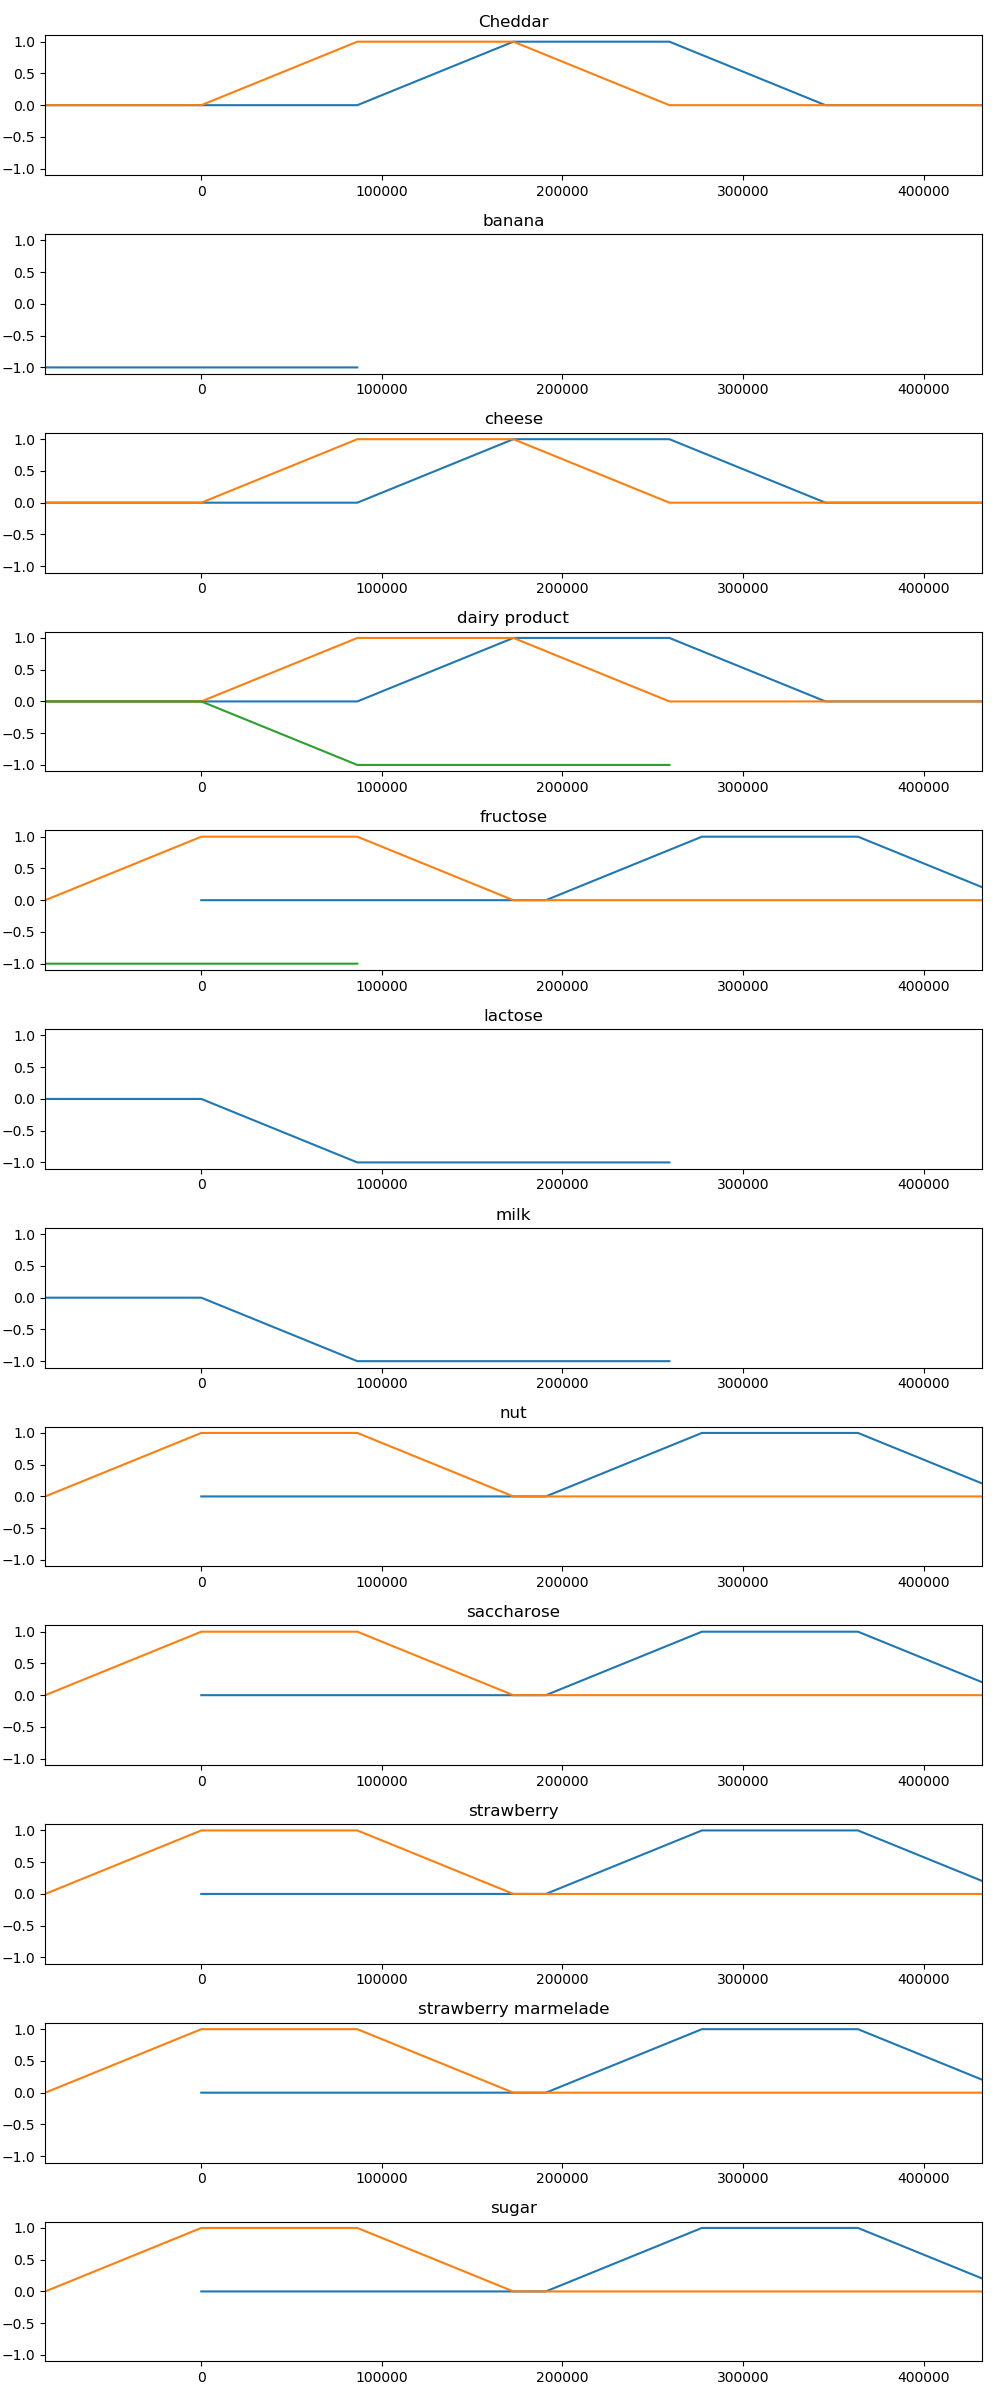
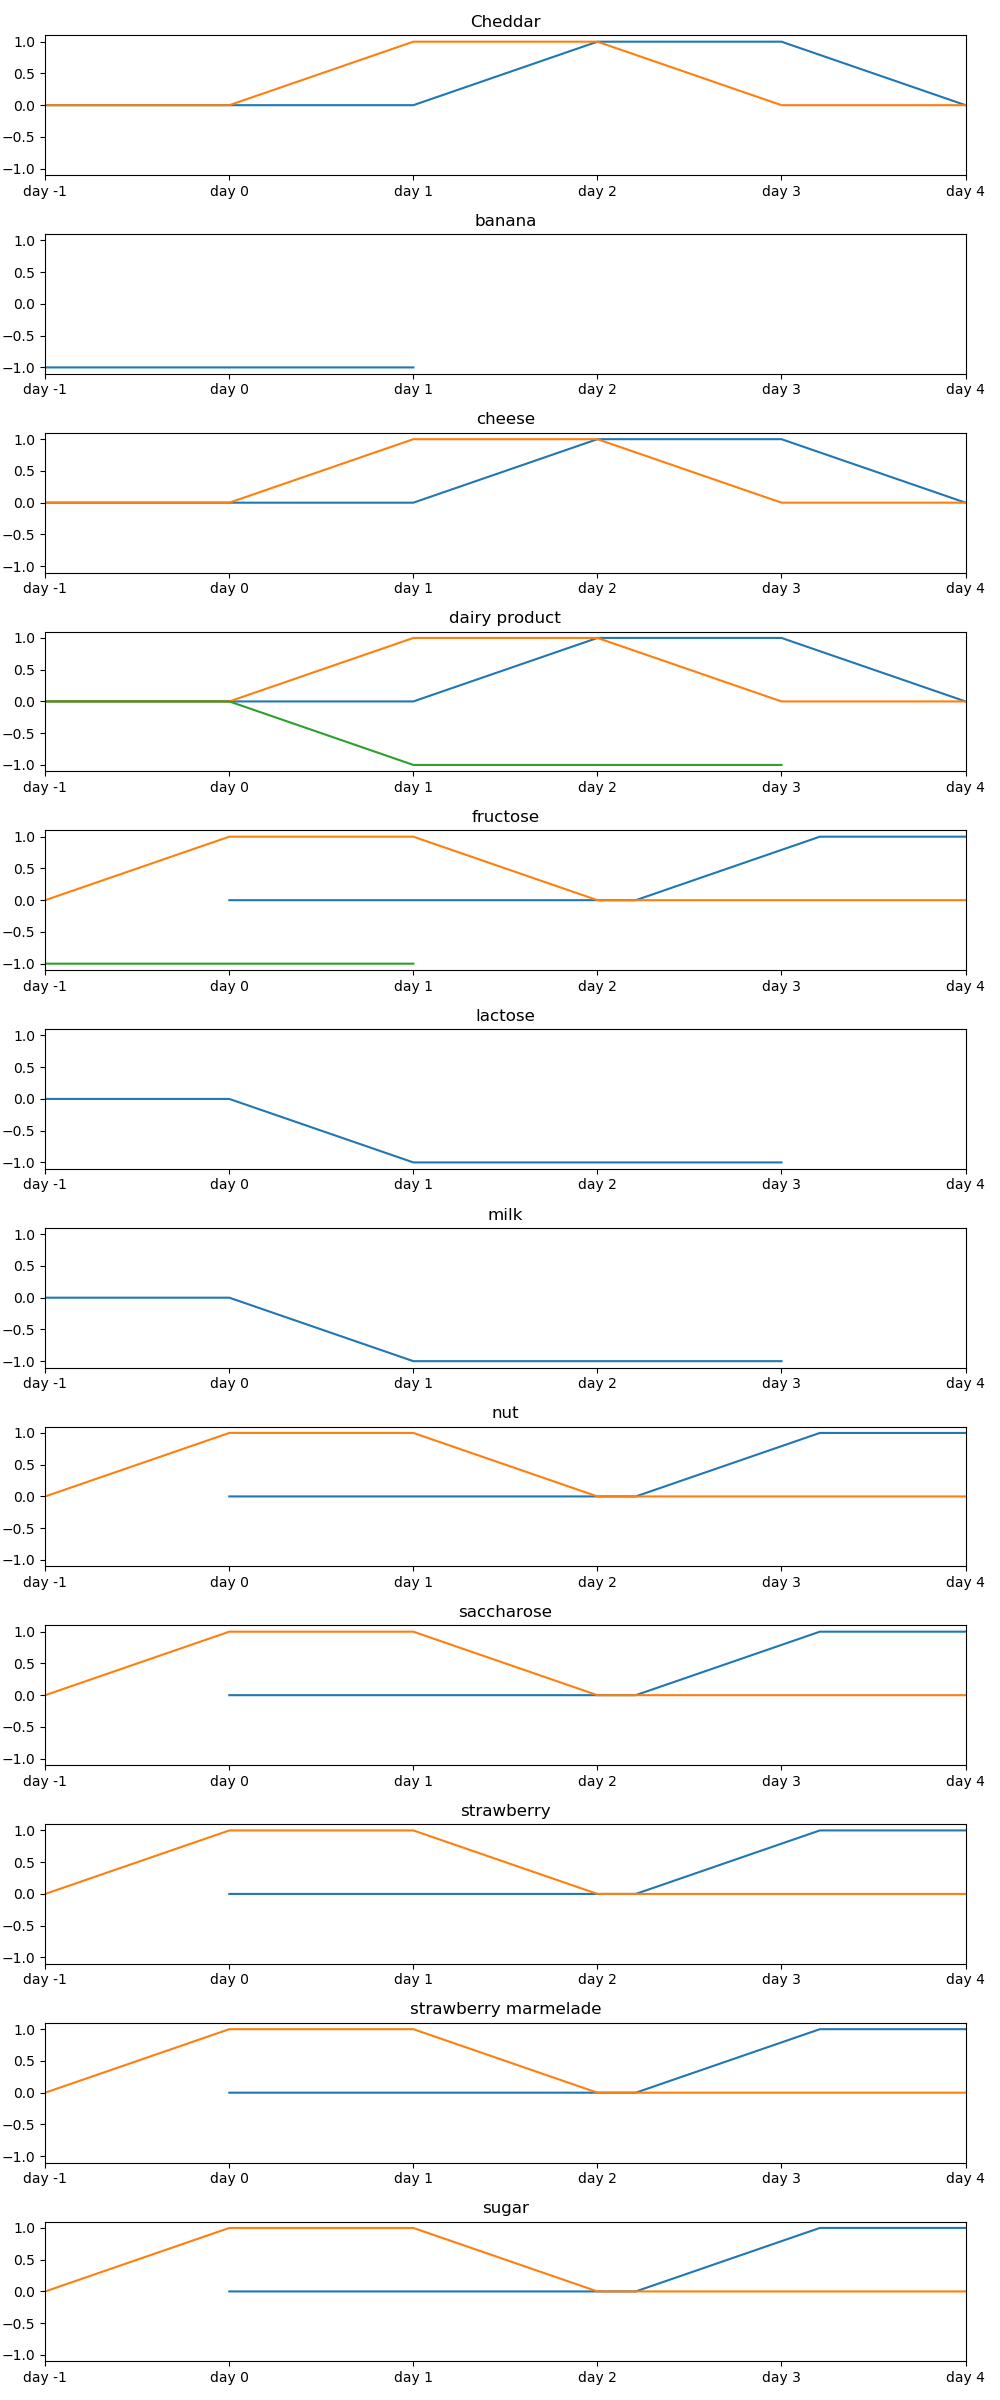
use "days" as x-axis-labels

diff --git a/start.py b/start.py
@@ -3,7 +3,6 @@
 import re
 from datetime import datetime
 import matplotlib.pyplot as plt
-import constant
 
 
 def load_ingredients(raw):
@@ -34,9 +33,9 @@ def resolve_ingredient(synonyms, ingredient):
     return ingredient_synonyms_resolved
 
 
-def process_diary(ingredients):
-    ingredients_per_datetime = {}
-    wellbeing_per_datetime = {}
+def parse_diary(diary_raw, ingredients):
+    ingredients_diary = {}
+    wellbeing_diary = {}
     well_being = 0
     diary_title_pattern = re.compile("^(\\d+)\\.(\\d+)\\.(\\d*) (\\d+):(\\d+)( -?(\\d+)(.(\\d+))?)?$")
     next_day = 1
@@ -66,23 +65,23 @@ def process_diary(ingredients):
                 if not first_datetime:
                     first_datetime = diary_datetime
 
-                diary_offset = (diary_datetime - first_datetime).total_seconds()
+                diary_offset = (diary_datetime - first_datetime).total_seconds() / 3600
                 if m.group(6):
                     well_being = float(m.group(6))
-                wellbeing_per_datetime[diary_offset] = well_being
+                wellbeing_diary[diary_offset] = well_being
             else:
                 contents = []
-                if diary_offset in ingredients_per_datetime:
-                    contents = ingredients_per_datetime[diary_offset]
+                if diary_offset in ingredients_diary:
+                    contents = ingredients_diary[diary_offset]
                 else:
-                    ingredients_per_datetime[diary_offset] = contents
+                    ingredients_diary[diary_offset] = contents
                 contents.append(line)
                 if line in ingredients:
                     for synonym in ingredients[line]:
                         contents.append(synonym)
-                ingredients_per_datetime[diary_offset] = contents
+                ingredients_diary[diary_offset] = contents
             next_day = 0
-    return ingredients_per_datetime, wellbeing_per_datetime
+    return ingredients_diary, wellbeing_diary
 
 
 with open("ingredients.txt") as f:
@@ -93,7 +92,7 @@ with open("diary.txt") as f:
 
 ingredients_unresolved = load_ingredients(ingredients_raw)
 ingredients_resolved = resolve_ingredients(ingredients_unresolved)
-ingredients_diary, wellbeing_diary = process_diary(ingredients_resolved)
+ingredients_diary, wellbeing_diary = parse_diary(diary_raw, ingredients_resolved)
 
 x = wellbeing_diary.keys()
 y = wellbeing_diary.values()
@@ -124,7 +123,9 @@ for inspected in all_ingredients_unique:
         axs[plot_number].plot([x-consumption for x in x], y, linestyle='solid')
 
     axs[plot_number].set_title(inspected)
-    axs[plot_number].set_xlim([-1*constant.DAY, +5*constant.DAY])
+    axs[plot_number].set_xlim([-1*24, +4*24])
+    axs[plot_number].set_xticks([0 + x*24 for x in range(-1,+5)])
+    axs[plot_number].set_xticklabels(["day " + str(x) for x in range(-1,+5)])
 
     plot_number += 1
 
